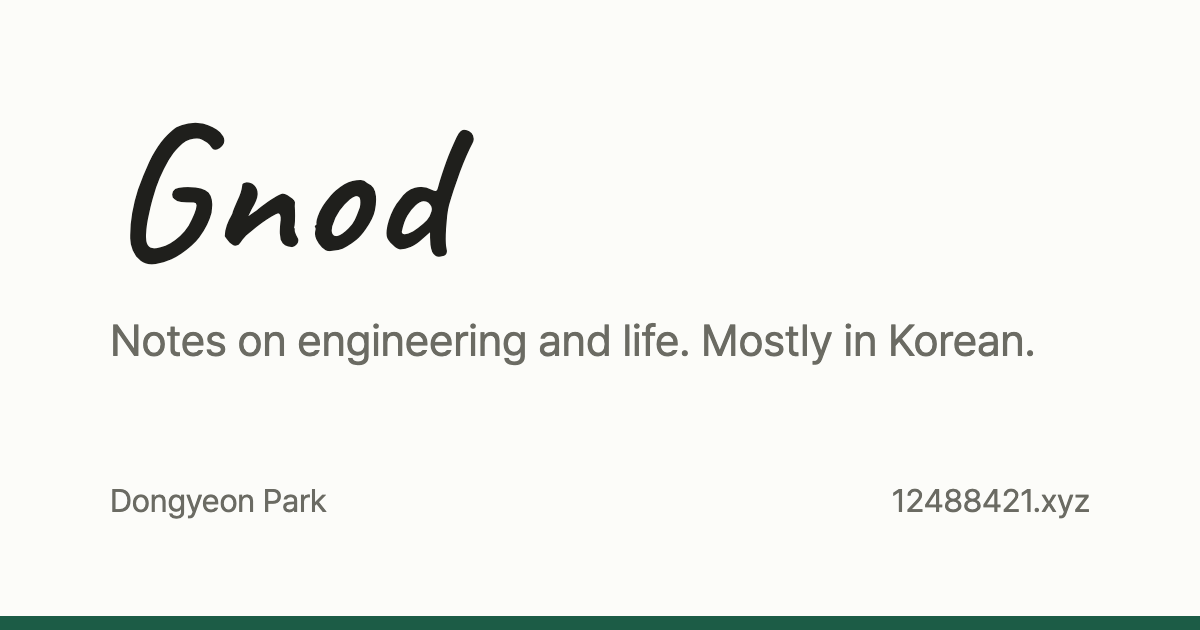
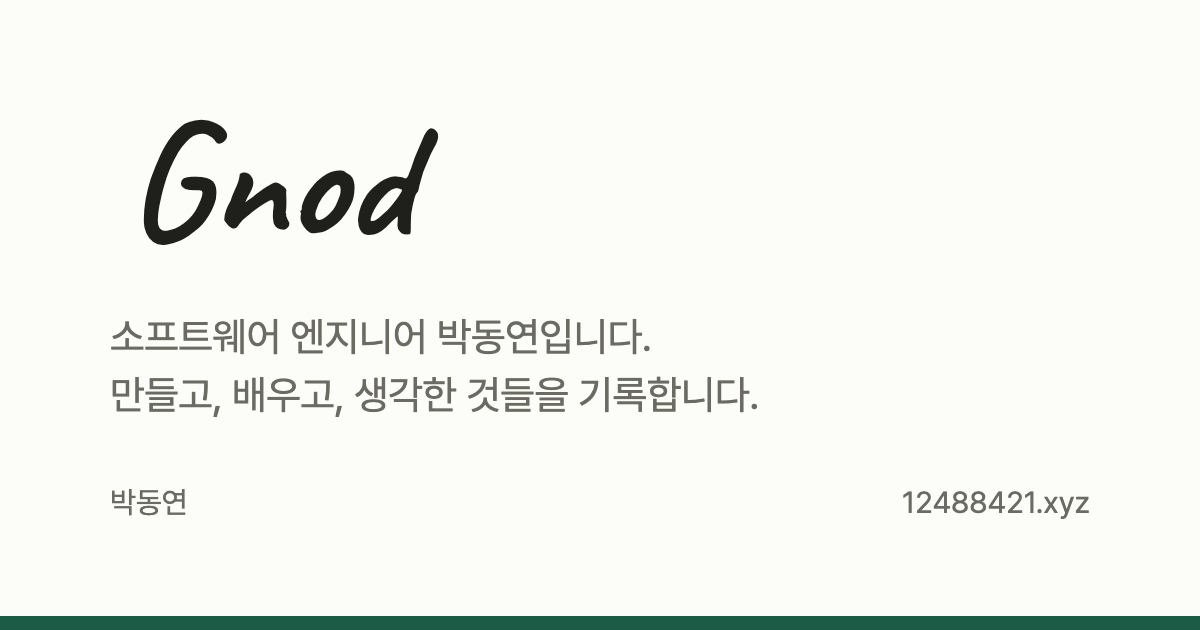
Regenerate link-preview images with the new intro, add an English one
Images are rendered from scripts/og.html by scripts/og_image, so the copy
can't drift from the site again. About, Projects, and English posts use
og-en.png.

diff --git a/scripts/og.html b/scripts/og.html
@@ -1,0 +1,35 @@
+<!DOCTYPE html>
+<!-- Link-preview image template. Render with scripts/og_image. -->
+<html>
+<head>
+<meta charset="utf-8">
+<style>
+  @font-face { font-family: "Caveat"; font-weight: 600; src: url("../assets/fonts/Caveat-600-latin.woff2"); }
+  @font-face { font-family: "Pretendard"; font-weight: 400; src: url("../_fonts-src/Pretendard-Regular.woff2"); }
+  html, body { margin: 0; }
+  body {
+    width: 1200px; height: 630px; box-sizing: border-box;
+    display: flex; flex-direction: column;
+    padding: 96px 110px 0; background: #fcfcf9; color: #1f1f1c;
+    font-family: "Pretendard", sans-serif; border-bottom: 14px solid #1c5c46;
+  }
+  .title { margin: 0 0 0 16px; font: 600 168px/1 "Caveat", cursive; }
+  .lede { margin: 44px 0 0; color: #6b6b63; font-size: 40px; line-height: 1.45; letter-spacing: -0.01em; }
+  .foot { margin-top: auto; padding-bottom: 96px; display: flex; justify-content: space-between; color: #6b6b63; font-size: 30px; }
+</style>
+</head>
+<body>
+  <p class="title">Gnod</p>
+  <p class="lede" id="lede"></p>
+  <div class="foot"><span id="name"></span><span>12488421.xyz</span></div>
+  <script>
+    var copy = {
+      ko: { lede: "소프트웨어 엔지니어 박동연입니다.<br>만들고, 배우고, 생각한 것들을 기록합니다.", name: "박동연" },
+      en: { lede: "I'm Dongyeon, a software engineer in South Korea.<br>I write about what I build, learn, and think about.", name: "Dongyeon Park" }
+    }[location.hash.slice(1) || "ko"];
+    document.documentElement.lang = location.hash.slice(1) || "ko";
+    document.getElementById("lede").innerHTML = copy.lede;
+    document.getElementById("name").textContent = copy.name;
+  </script>
+</body>
+</html>

diff --git a/README.md b/README.md
@@ -31,3 +31,11 @@ git config core.hooksPath .githooks
 ## Fonts
 
 Pretendard is subset to the characters the site uses. After a post with rare characters, run `scripts/subset_fonts`.
+
+## Link-preview images
+
+`assets/og-default.png` (Korean, site-wide) and `assets/og-en.png` (English pages) are rendered from `scripts/og.html`. Edit the copy there, then run:
+
+```
+scripts/og_image
+```

diff --git a/_posts/2022-09-26-leetcode-142.md b/_posts/2022-09-26-leetcode-142.md
@@ -1,5 +1,6 @@
 ---
 lang: en
+image: /assets/og-en.png
 layout: post
 title: "Leetcode #142"
 date: 2022-09-26 09:31:58 +0000
